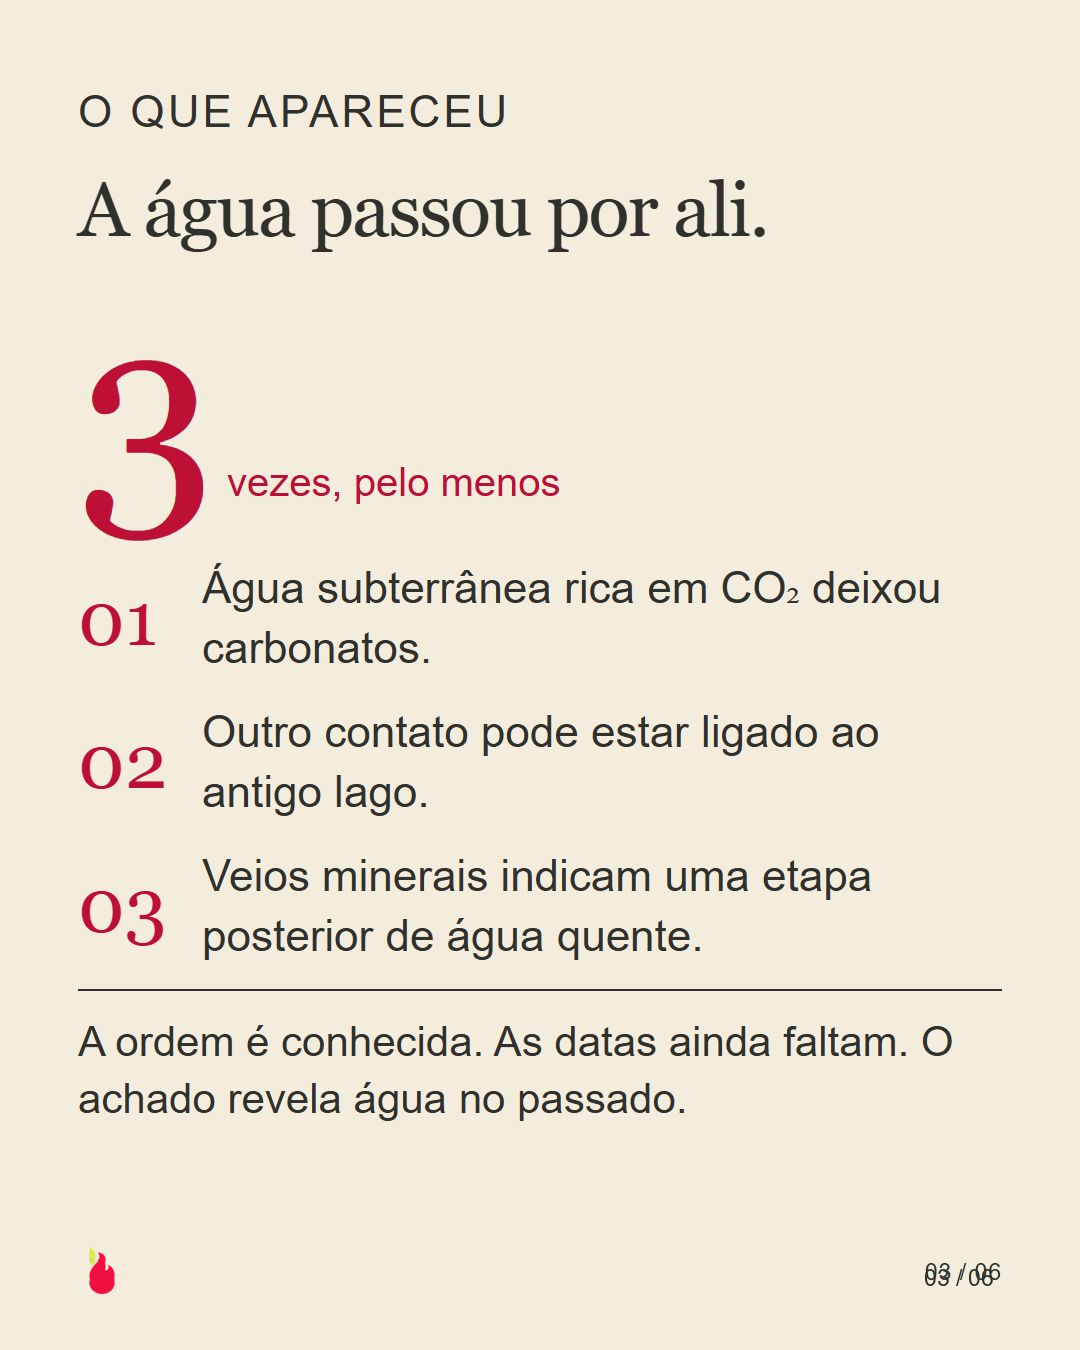
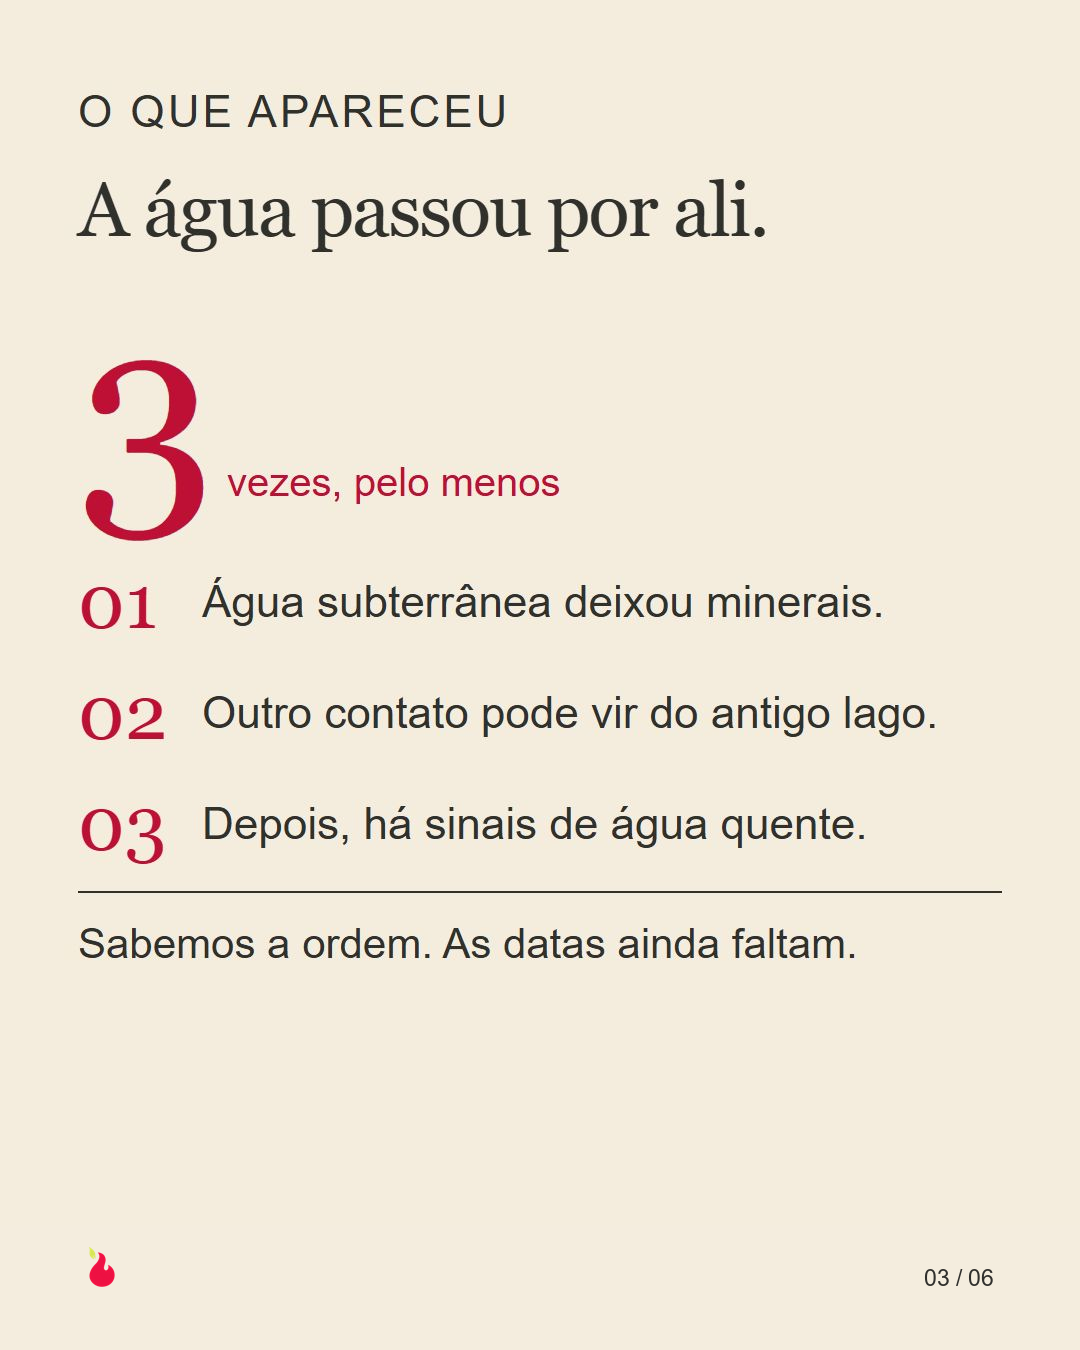
Trim slide copy and preserve details in caption

diff --git a/growth/cycles/031-mars/slide-05.html b/growth/cycles/031-mars/slide-05.html
@@ -1,1 +1,1 @@
-<!doctype html><html lang="pt-BR"><meta charset="utf-8"><title>Marte e batatas · 5</title><link rel="stylesheet" href="style.css"><main class="slide dark"><p class="eyebrow">Uma escala na Terra</p><h2>As batatas já<br>passaram pela NASA.</h2><p>Nos anos 1990, pesquisadores cultivaram batatas com água e nutrientes em bandejas.</p><svg class="diagram" viewBox="0 0 924 460" role="img" aria-label="Esquema de bandejas com batatas e circulação de solução nutritiva"><path d="M140 90H770M185 110V325H730V110" fill="none" stroke="#f4edde" stroke-width="7"/><path d="M186 278H730" stroke="#D7E25B" stroke-width="11"/><ellipse cx="355" cy="250" rx="70" ry="42" fill="#b78355"/><ellipse cx="550" cy="250" rx="65" ry="42" fill="#b78355"/><path d="M355 210V140m0 22q-80-60-30-74q52 9 30 74m195 48V140m0 22q65-65 28-76q-48 2-28 76" fill="#D7E25B" stroke="#D7E25B" stroke-width="6"/><path d="M730 325V382H185V325" fill="none" stroke="#D7E25B" stroke-width="5"/><path d="m400 370 22 12-22 12" stroke="#D7E25B" fill="none" stroke-width="5"/><text x="242" y="435" font-size="36" fill="#f4edde">solução nutritiva em circulação</text></svg><p class="small">Hidroponia na Terra, em ambiente controlado. A pesquisa chamou a atenção da Frito-Lay.</p><p class="source">Fonte: NASA, arquivo de 2016.</p><footer class="foot"><img src="assets/flame.png" alt="Cereja Flamejante"><span>05 / 06</span></footer></main></html>
+<!doctype html><html lang="pt-BR"><meta charset="utf-8"><title>Marte e batatas · 5</title><link rel="stylesheet" href="style.css"><main class="slide dark"><p class="eyebrow">Uma escala na Terra</p><h2>As batatas já<br>passaram pela NASA.</h2><p>Nos anos 1990, a NASA testou batatas em hidroponia.</p><svg class="diagram" viewBox="0 0 924 460" role="img" aria-label="Esquema de bandejas com batatas e circulação de solução nutritiva"><path d="M140 90H770M185 110V325H730V110" fill="none" stroke="#f4edde" stroke-width="7"/><path d="M186 278H730" stroke="#D7E25B" stroke-width="11"/><ellipse cx="355" cy="250" rx="70" ry="42" fill="#b78355"/><ellipse cx="550" cy="250" rx="65" ry="42" fill="#b78355"/><path d="M355 210V140m0 22q-80-60-30-74q52 9 30 74m195 48V140m0 22q65-65 28-76q-48 2-28 76" fill="#D7E25B" stroke="#D7E25B" stroke-width="6"/><path d="M730 325V382H185V325" fill="none" stroke="#D7E25B" stroke-width="5"/><path d="m400 370 22 12-22 12" stroke="#D7E25B" fill="none" stroke-width="5"/><text x="242" y="435" font-size="36" fill="#f4edde">solução nutritiva em circulação</text></svg><p class="small">Na Terra. A pesquisa até chamou a atenção da Frito-Lay.</p><p class="source">Fonte: NASA, arquivo de 2016.</p><footer class="foot"><img src="assets/flame.png" alt="Cereja Flamejante"><span>05 / 06</span></footer></main></html>

diff --git a/growth/cycles/031-mars/slide-02.html b/growth/cycles/031-mars/slide-02.html
@@ -1,1 +1,1 @@
-<!doctype html><html lang="pt-BR"><meta charset="utf-8"><title>Marte e batatas · 2</title><link rel="stylesheet" href="style.css"><main class="slide "><p class="eyebrow">A investigação</p><h2>Essa água ficou<br>no passado.</h2><p>Em Jezero, o Perseverance encontrou marcas de antigos contatos com água nos minerais das rochas.</p><svg class="diagram" viewBox="0 0 924 460" role="img" aria-label="Diagrama conceitual de um laser analisando minerais numa rocha"><path d="M120 340 185 98 505 62 710 154 800 350 610 410 270 415Z" fill="#b16c48"/><path d="M185 98 395 180 270 415M505 62 395 180 610 410M395 180 710 154" fill="none" stroke="#edbe92" stroke-width="10"/><path d="M900 40 420 234" stroke="#BE1035" stroke-width="6"/><circle cx="420" cy="234" r="24" fill="#D7E25B"/><path d="M35 410H870" stroke="#30302d" stroke-width="2"/><text x="630" y="75" font-size="36" fill="#30302d">laser do SuperCam</text><text x="44" y="453" font-size="36" fill="#30302d">esquema conceitual • sem escala</text></svg><p class="small">O SuperCam analisou mais de 185 pontos de rocha com seu laser.</p><footer class="foot"><img src="assets/flame.png" alt="Cereja Flamejante"><span>02 / 06</span></footer></main></html>
+<!doctype html><html lang="pt-BR"><meta charset="utf-8"><title>Marte e batatas · 2</title><link rel="stylesheet" href="style.css"><main class="slide "><p class="eyebrow">A investigação</p><h2>Essa água ficou<br>no passado.</h2><p>O Perseverance encontrou nas rochas de Jezero marcas de antigos contatos com água.</p><svg class="diagram" viewBox="0 0 924 460" role="img" aria-label="Diagrama conceitual de um laser analisando minerais numa rocha"><path d="M120 340 185 98 505 62 710 154 800 350 610 410 270 415Z" fill="#b16c48"/><path d="M185 98 395 180 270 415M505 62 395 180 610 410M395 180 710 154" fill="none" stroke="#edbe92" stroke-width="10"/><path d="M900 40 420 234" stroke="#BE1035" stroke-width="6"/><circle cx="420" cy="234" r="24" fill="#D7E25B"/><path d="M35 410H870" stroke="#30302d" stroke-width="2"/><text x="630" y="75" font-size="36" fill="#30302d">laser do SuperCam</text><text x="44" y="453" font-size="36" fill="#30302d">esquema conceitual • sem escala</text></svg><p class="small">O laser analisou mais de 185 pontos.</p><footer class="foot"><img src="assets/flame.png" alt="Cereja Flamejante"><span>02 / 06</span></footer></main></html>

diff --git a/growth/cycles/031-mars/slide-03.html b/growth/cycles/031-mars/slide-03.html
@@ -1,1 +1,1 @@
-<!doctype html><html lang="pt-BR"><meta charset="utf-8"><title>Marte e batatas · 3</title><link rel="stylesheet" href="style.css"><main class="slide "><p class="eyebrow">O que apareceu</p><h2>A água passou por ali.</h2><div class="big">3<span style="font:40px Arial"> vezes, pelo menos</span></div><div class="row"><span class="num">01</span><p>Água subterrânea rica em CO₂ deixou carbonatos.</p></div><div class="row"><span class="num">02</span><p>Outro contato pode estar ligado ao antigo lago.</p></div><div class="row"><span class="num">03</span><p>Veios minerais indicam uma etapa posterior de água quente.</p></div><p class="small line">A ordem é conhecida. As datas ainda faltam. O achado revela água no passado.</p><footer class="foot"><img src="assets/flame.png" alt="Cereja Flamejante"><span>03 / 06</span></footer></main></html>
+<!doctype html><html lang="pt-BR"><meta charset="utf-8"><title>Marte e batatas · 3</title><link rel="stylesheet" href="style.css"><main class="slide "><p class="eyebrow">O que apareceu</p><h2>A água passou por ali.</h2><div class="big">3<span style="font:40px Arial"> vezes, pelo menos</span></div><div class="row"><span class="num">01</span><p>Água subterrânea deixou minerais.</p></div><div class="row"><span class="num">02</span><p>Outro contato pode vir do antigo lago.</p></div><div class="row"><span class="num">03</span><p>Depois, há sinais de água quente.</p></div><p class="small line">Sabemos a ordem. As datas ainda faltam.</p><footer class="foot"><img src="assets/flame.png" alt="Cereja Flamejante"><span>03 / 06</span></footer></main></html>

diff --git a/growth/cycles/031-mars/slide-04.html b/growth/cycles/031-mars/slide-04.html
@@ -1,1 +1,1 @@
-<!doctype html><html lang="pt-BR"><meta charset="utf-8"><title>Marte e batatas · 4</title><link rel="stylesheet" href="style.css"><main class="slide"><p class="eyebrow">Corta para o cinema</p><h2>E a horta de<br>Perdido em Marte?</h2><p>No filme, Mark Watney fica sozinho em Marte e tenta sobreviver cultivando batatas.</p><img src="assets/mars-greenhouse-concept.png" alt="Cena conceitual de cultivo em um habitat marciano" style="width:924px;height:440px;object-fit:cover;display:block;margin:28px 0 18px"><p class="source">Cena conceitual inspirada na premissa do filme.</p><p class="small">Uma horta real exigiria água adequada, luz, nutrientes e um ambiente protegido.</p><footer class="foot"><img src="assets/flame.png" alt="Cereja Flamejante"><span>04 / 06</span></footer></main></html>
+<!doctype html><html lang="pt-BR"><meta charset="utf-8"><title>Marte e batatas · 4</title><link rel="stylesheet" href="style.css"><main class="slide"><p class="eyebrow">Corta para o cinema</p><h2>E a horta de<br>Perdido em Marte?</h2><p>No filme, um astronauta preso em Marte tenta sobreviver plantando batatas.</p><img src="assets/mars-greenhouse-concept.png" alt="Cena conceitual de cultivo em um habitat marciano" style="width:924px;height:440px;object-fit:cover;display:block;margin:28px 0 18px"><p class="source">Cena conceitual.</p><p class="small">Na vida real, a horta ainda exigiria um ambiente protegido.</p><footer class="foot"><img src="assets/flame.png" alt="Cereja Flamejante"><span>04 / 06</span></footer></main></html>

diff --git a/growth/cycles/031-mars/slide-06.html b/growth/cycles/031-mars/slide-06.html
@@ -1,1 +1,1 @@
-<!doctype html><html lang="pt-BR"><meta charset="utf-8"><title>Marte e batatas · 6</title><link rel="stylesheet" href="style.css"><main class="slide exit"><p class="eyebrow">Cereja Flamejante</p><h2>Uma notícia.<br>Um filme.<br>Uma batata.</h2><p style="max-width:790px;margin-top:50px">Na edição #031, essa curiosidade divide espaço com Carrie, Junji Ito e outras coisas estranhas que me fizeram abrir mais uma aba.</p><div class="line" style="margin-top:95px"><p><b>Quer receber a próxima<br>Cereja Flamejante?</b></p><p class="small">Assine pelo link da bio</p></div><footer class="foot"><img src="assets/flame.png" alt="Cereja Flamejante"><span>06 / 06</span></footer></main></html>
+<!doctype html><html lang="pt-BR"><meta charset="utf-8"><title>Marte e batatas · 6</title><link rel="stylesheet" href="style.css"><main class="slide exit"><p class="eyebrow">Cereja Flamejante</p><h2>Uma notícia.<br>Um filme.<br>Uma batata.</h2><p style="max-width:790px;margin-top:50px">Mais descobertas na edição #031.</p><div class="line" style="margin-top:95px"><p><b>Quer receber a próxima<br>Cereja Flamejante?</b></p><p class="small">Assine pelo link da bio</p></div><footer class="foot"><img src="assets/flame.png" alt="Cereja Flamejante"><span>06 / 06</span></footer></main></html>

diff --git a/growth/cycles/031-mars/packet.md b/growth/cycles/031-mars/packet.md
@@ -76,3 +76,5 @@ Decisão de formato: carrossel entrega contexto curto e achado; legenda concentr
 Regra de CTA aprovada por Kell: nas peças e legendas, usar convite empático e contextual. Infinitivo reservado ao texto de botão neste projeto. Slide final: Quer receber a próxima Cereja Flamejante? Assine pelo link da bio.
 
 Novo ativo: assets/mars-greenhouse-concept.png, cena conceitual original inspirada na premissa de cultivo para sobrevivência. Ferramenta integrada de imagem. Não é frame nem representação de Matt Damon, nem diagrama agronômico: plantas e tubérculos compõem uma cena fictícia. Direitos de imagens do filme continuam pendentes; nenhuma delas foi reproduzida.
+
+Revisão: textos das peças reduzidos; detalhes científicos preservados na legenda. CTA empático mantido.
